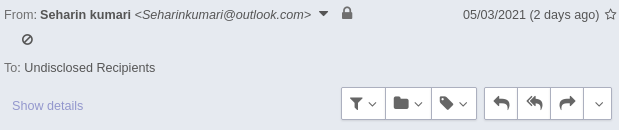
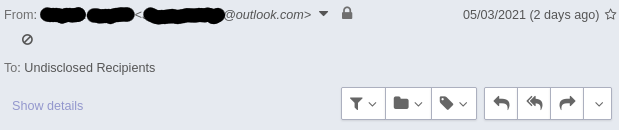
Skrevet mer, lagt til noen bilder

Changed region(s): [[0.0614, 0.0308, 0.3683, 0.1846]]

diff --git a/templates/swindle.html b/templates/swindle.html
@@ -118,7 +118,10 @@ body,h1,h2,h3,h4,h5,h6 {font-family: "Lato", sans-serif}
 
     <h5 class="w3-padding-32">Man kan noen ganger også identifisere phishing eller
       spam ved å se på hvor mange mennesker som har mottatt e-posten.</h5>
-      <img src="/static/undisclosedrecipient.png"/><!------Denne kan skrives riktig når jeg har redigert ut navnet-->
+      <img src="/static/undisclosedrecipients.png"/>
+        <p style="color:#A9A9A9">Undisclosed recipients vil tilsi at vi ikke har mulighet til å se hvem
+            som har mottatt e-posten og vi kan fra det anta at vi ikke er den eneste.</p>
+        <h5 class="w3-padding-32">Her fylles det neste inn</h5>
     </div>
   </div>
 </div>
